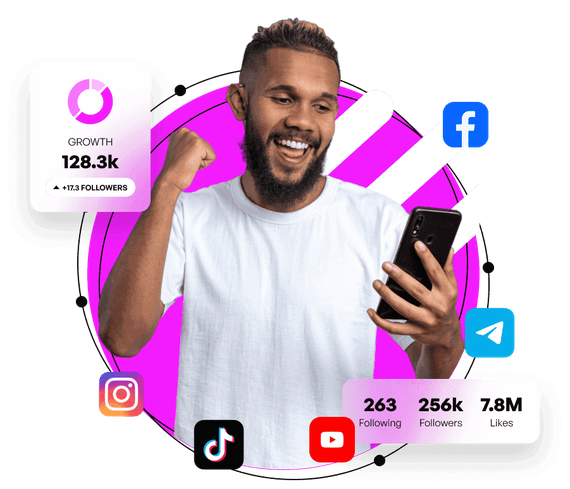
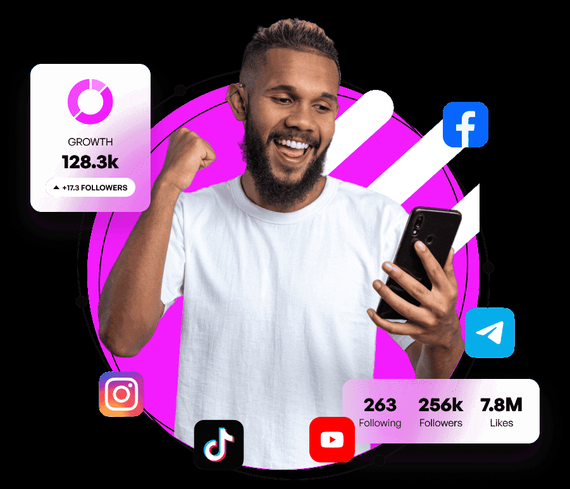
perf: compress hero.webp to 20KB (-66%) and fix Cumulative Layout Shift (CLS) with aspect-ratio and min-height bounds

diff --git a/index.html b/index.html
@@ -120,10 +120,10 @@ License: You must have a valid license from official store to legally use the th
 		    <div class="flex flex-wrap flex-row -mx-4 justify-center">
 		      <!-- content -->
 		      <div class="flex-shrink max-w-full px-4 sm:px-12 lg:px-18 w-full sm:w-9/12 lg:w-1/2 self-center">
-		        <div class="relative overflow-hidden border-b border-gray-100">
-		          <picture>
+		        <div class="relative overflow-hidden border-b border-gray-100" style="aspect-ratio: 570 / 489; width: 100%;">
+		          <picture style="aspect-ratio: 570 / 489; display: block; width: 100%;">
 		            <source srcset="src/img/dummy/hero.webp" type="image/webp">
-		            <img class="max-w-full h-auto mx-auto" src="src/img/dummy/hero.png" alt="GhBooster SMM Panel" width="570" height="489" fetchpriority="high" loading="eager" decoding="async">
+		            <img class="max-w-full h-auto mx-auto" src="src/img/dummy/hero.png" alt="GhBooster SMM Panel" width="570" height="489" style="aspect-ratio: 570 / 489; width: 100%; height: auto;" fetchpriority="high" loading="eager" decoding="async">
 		          </picture>
 		        </div>
 		      </div><!-- end content -->
@@ -132,7 +132,7 @@ License: You must have a valid license from official store to legally use the th
 		      <div class="flex-shrink max-w-full px-4 w-full md:w-9/12 lg:w-1/2 self-center lg:pr-12">
 		        <div class="text-center lg:text-left mt-6 lg:mt-0">
 		          <div class="mb-12">
-		            <h1 class="text-4xl hero-title leading-normal text-black font-bold mb-4">#1 SMM Panel for<br><span data-toggle="typed" data-options='{"strings": ["Instagram Followers", "TikTok Likes", "YouTube Subscribers", "Telegram Members", "Facebook Likes"]}'>Instagram Followers</span></h1>
+		            <h1 class="text-4xl hero-title leading-normal text-black font-bold mb-4" style="min-height: 110px;">#1 SMM Panel for<br><span data-toggle="typed" data-options='{"strings": ["Instagram Followers", "TikTok Likes", "YouTube Subscribers", "Telegram Members", "Facebook Likes"]}' style="display: inline-block; min-height: 1.2em;">Instagram Followers</span></h1>
 		            <p class="text-gray-700 leading-relaxed font-light text-xl mx-auto pb-2">GhBooster provides ultra-fast, affordable, and automated social media growth services for creators, brands, and resellers worldwide.</p>
 		          </div>
 		          <div class="flex flex-row items-center justify-center lg:justify-start gap-3 sm:gap-4">
